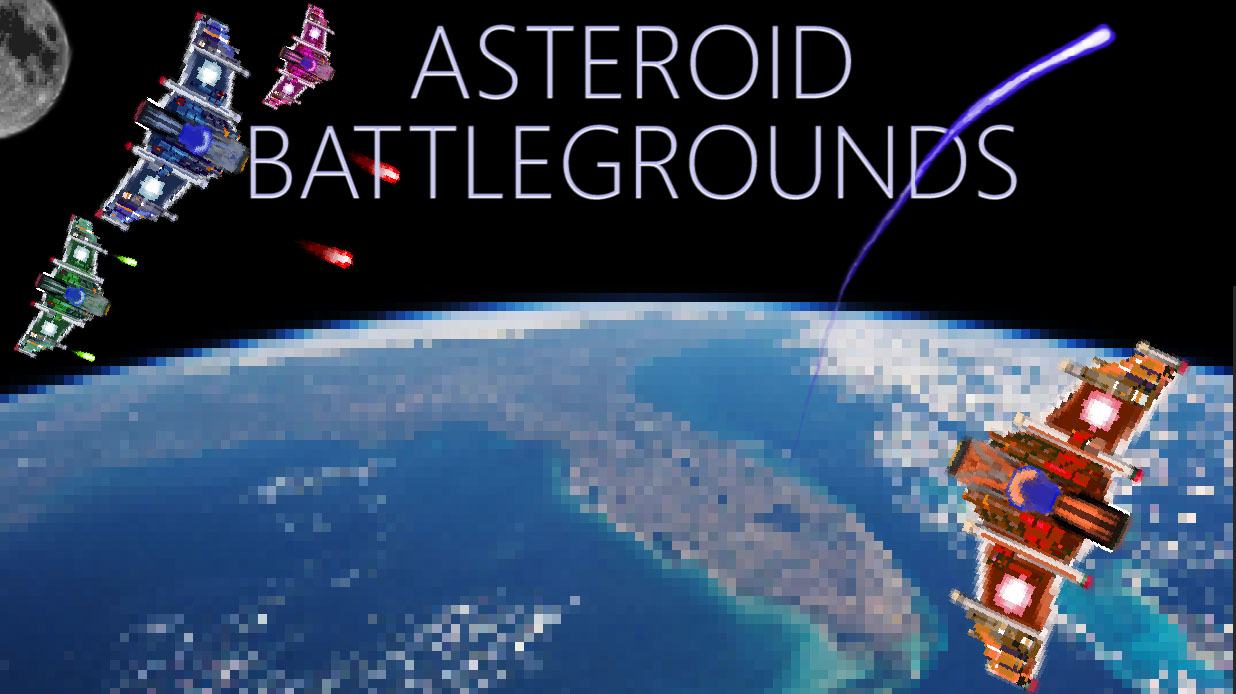
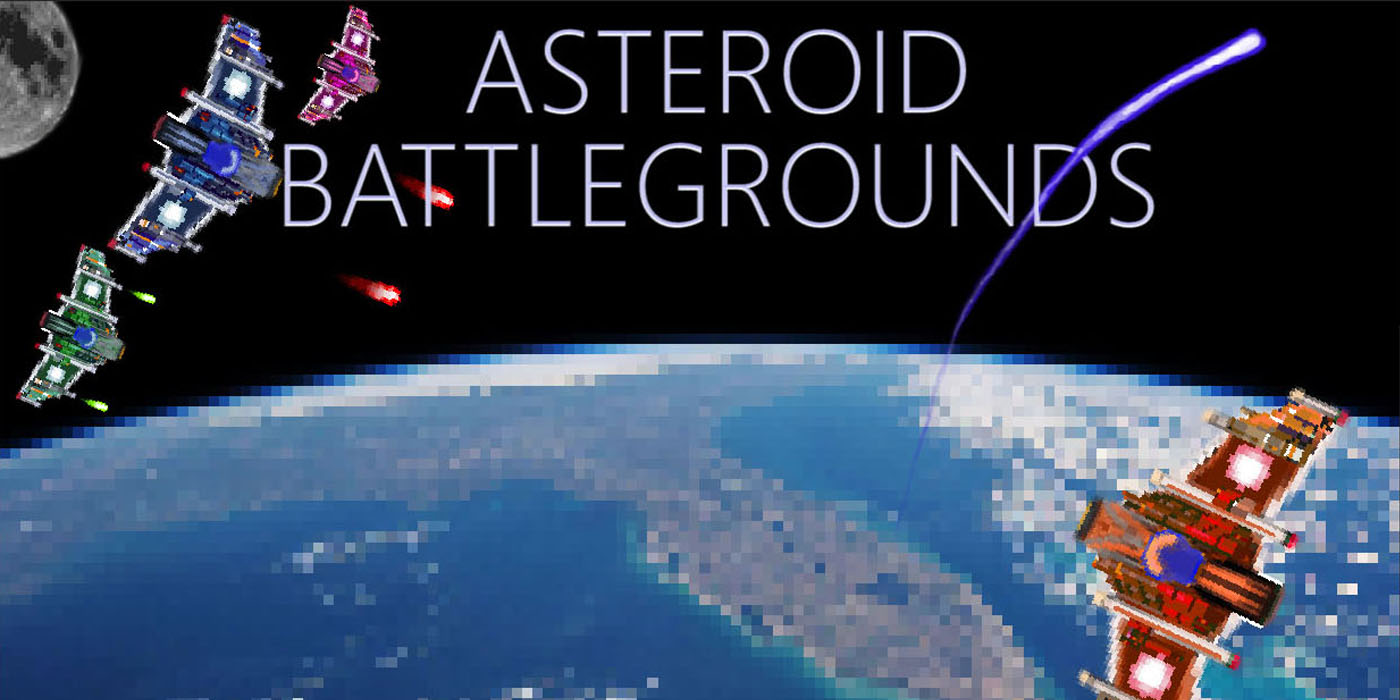
better covers and started 12-13

diff --git a/pages/projects/[slug].js b/pages/projects/[slug].js
@@ -1,16 +1,18 @@
 import React, { useEffect } from 'react'
 import { useRouter } from 'next/router'
-const PROJECT_COUNT = 5 // used for static render of pages at build time (getStaticPaths)
+const PROJECT_COUNT = 7 // used for static render of pages at build time (getStaticPaths)
 
 export default function Project({ slug }) {
   const router = useRouter()
   useEffect(() => {
     switch(slug) {
       case '1': router.push('https://codabool-js-photography.herokuapp.com'); break
-      case '2': router.push('https://codabool-js-techsupport.herokuapp.com/'); break
+      case '2': router.push('https://codabool-js-techsupport.herokuapp.com'); break
       case '3': router.push('https://codabool-django-blog.herokuapp.com'); break
       case '4': router.push('https://codabool-django-social.herokuapp.com'); break
-      case '5': router.push('https://codabool-react-dashboard.herokuapp.com/'); break
+      case '5': router.push('https://codabool-react-dashboard.herokuapp.com'); break
+      case '6': router.push('https://codabool-nextjs-social.herokuapp.com'); break
+      case '7': router.push('https://codabool-nextjs-market.herokuapp.com'); break
       default: router.push('/projects')
     }
   }, [])

diff --git a/pages/projects/index.js b/pages/projects/index.js
@@ -58,6 +58,20 @@ export default function Projects() {
         tags={['React']}
         delay={1600}
       />
+      <ProjectBox
+        title="Project 6"
+        description="Senior fullstack project to assist with spotting human trafficking and reporting it. This is a social media site to make posts with images and make comments about missing people."
+        link="/projects/6"
+        tags={['React', 'Express', 'MongoDB', 'AWS S3']}
+        delay={1600}
+      />
+      <ProjectBox
+        title="Project 7"
+        description="Fullstack Nextjs e-commerce project. My most complete project yet. Connects to Stripe and a PostgresQL database to allow for products to be added to cart and checked out. Many different tools involved here. Check it out!"
+        link="/projects/7"
+        tags={['Nextjs', 'Express', 'Stripe', 'PostgresQL']}
+        delay={1600}
+      />
     </div>
   )
 }

diff --git a/_posts/9.md b/_posts/9.md
@@ -1,13 +1,13 @@
 ---
 title: 'Ellucian Cloud Internship Extenstion'
 excerpt: 'My 12 week contract has been extended an additional 21 weeks. I completed my dashboard and will be maintaining it as well as starting new projects'
-coverImage: '/assets/coverImg/ellucian-cover-dev.jpg'
+coverImage: '/assets/coverImg/ell-cover.jpg'
 date: '2020-09-7 22:20:00'
 author:
   name: Coda Bool
   picture: '/assets/authorImg/codabool.jpg'
 ogImage:
-  url: '/assets/coverImg/ellucian-cover-dev.jpg'
+  url: '/assets/coverImg/ell-cover.jpg'
 tag: 'personal webdev'
 ---
 

diff --git a/_posts/7.md b/_posts/7.md
@@ -1,13 +1,13 @@
 ---
 title: 'Ellucian DevOps Intership Details'
 excerpt: 'I have begun an internship at Ellucian. This is a 12-week contract which can be extended. This will involve work with AWS, Ansible and Jenkins.'
-coverImage: '/assets/coverImg/ellucian-cover-dev.jpg'
+coverImage: '/assets/coverImg/ell-cover.jpg'
 date: '2020-05-18 22:20:00'
 author:
   name: Coda Bool
   picture: '/assets/authorImg/codabool.jpg'
 ogImage:
-  url: '/assets/coverImg/ellucian-cover-dev.jpg'
+  url: '/assets/coverImg/ell-cover.jpg'
 tag: 'devops'
 ---
 

diff --git a/_posts/12.md b/_posts/12.md
@@ -1,0 +1,18 @@
+---
+title: 'Senior Project Trafficking Spotters'
+excerpt: 'Coming Soon...'
+coverImage: '/assets/coverImg/traffick.jpg'
+date: '2020-10-15 22:20:00'
+author:
+  name: Coda Bool
+  picture: '/assets/authorImg/codabool.jpg'
+ogImage:
+  url: '/assets/coverImg/traffick.jpg'
+tag: 'express nextjs heroku mongodb aws'
+---
+
+# Senior Project, Social media for stopping human trafficking
+> This is a live project which can be seen [here](https://codabool.com/projects/6)
+
+&emsp;
+More info coming soon

diff --git a/_posts/13.md b/_posts/13.md
@@ -1,0 +1,18 @@
+---
+title: 'Senior Semester Final, E-commerce Site'
+excerpt: 'Coming Soon...'
+coverImage: '/assets/coverImg/market.jpg'
+date: '2020-11-15 22:20:00'
+author:
+  name: Coda Bool
+  picture: '/assets/authorImg/codabool.jpg'
+ogImage:
+  url: '/assets/coverImg/market.jpg'
+tag: 'postgresql express nextjs heroku stripe'
+---
+
+# E-Commerce market with Stripe
+> This is a live project which can be seen [here](https://codabool.com/projects/7)
+
+&emsp;
+More info coming soon
